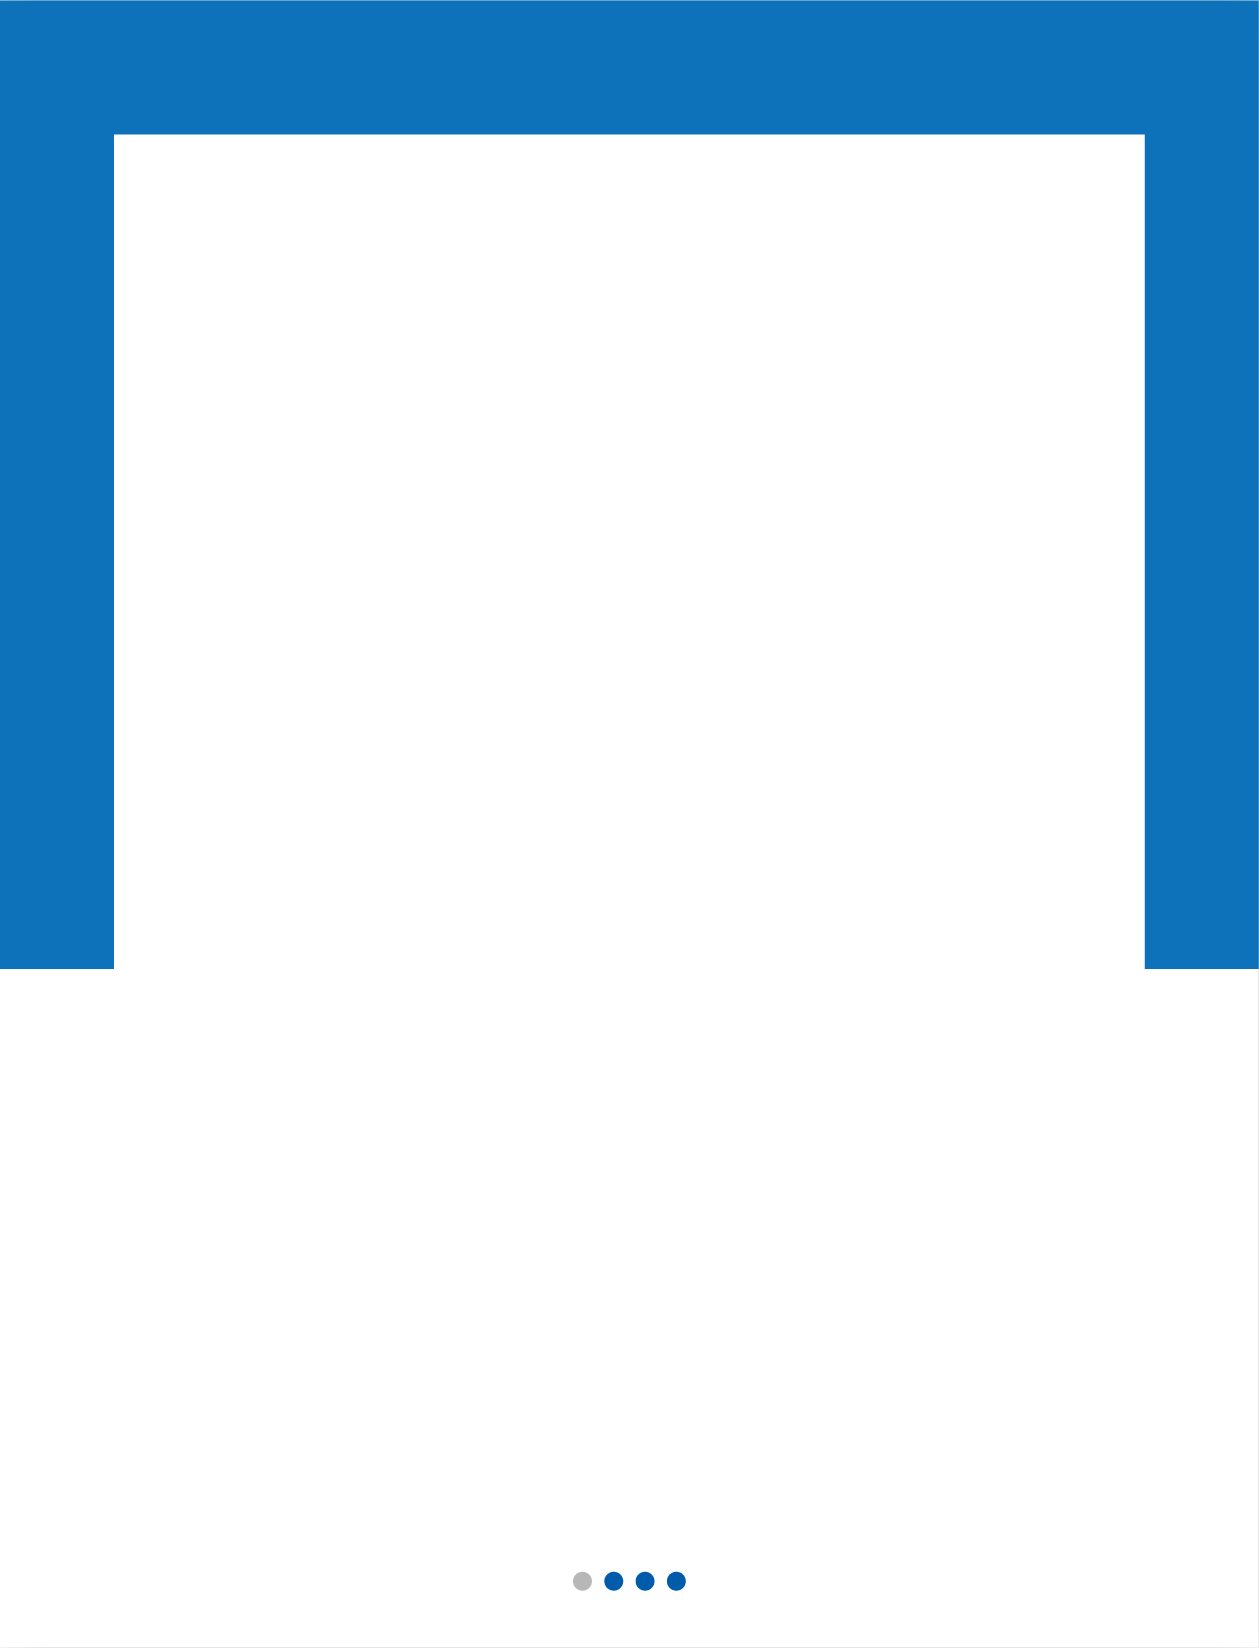
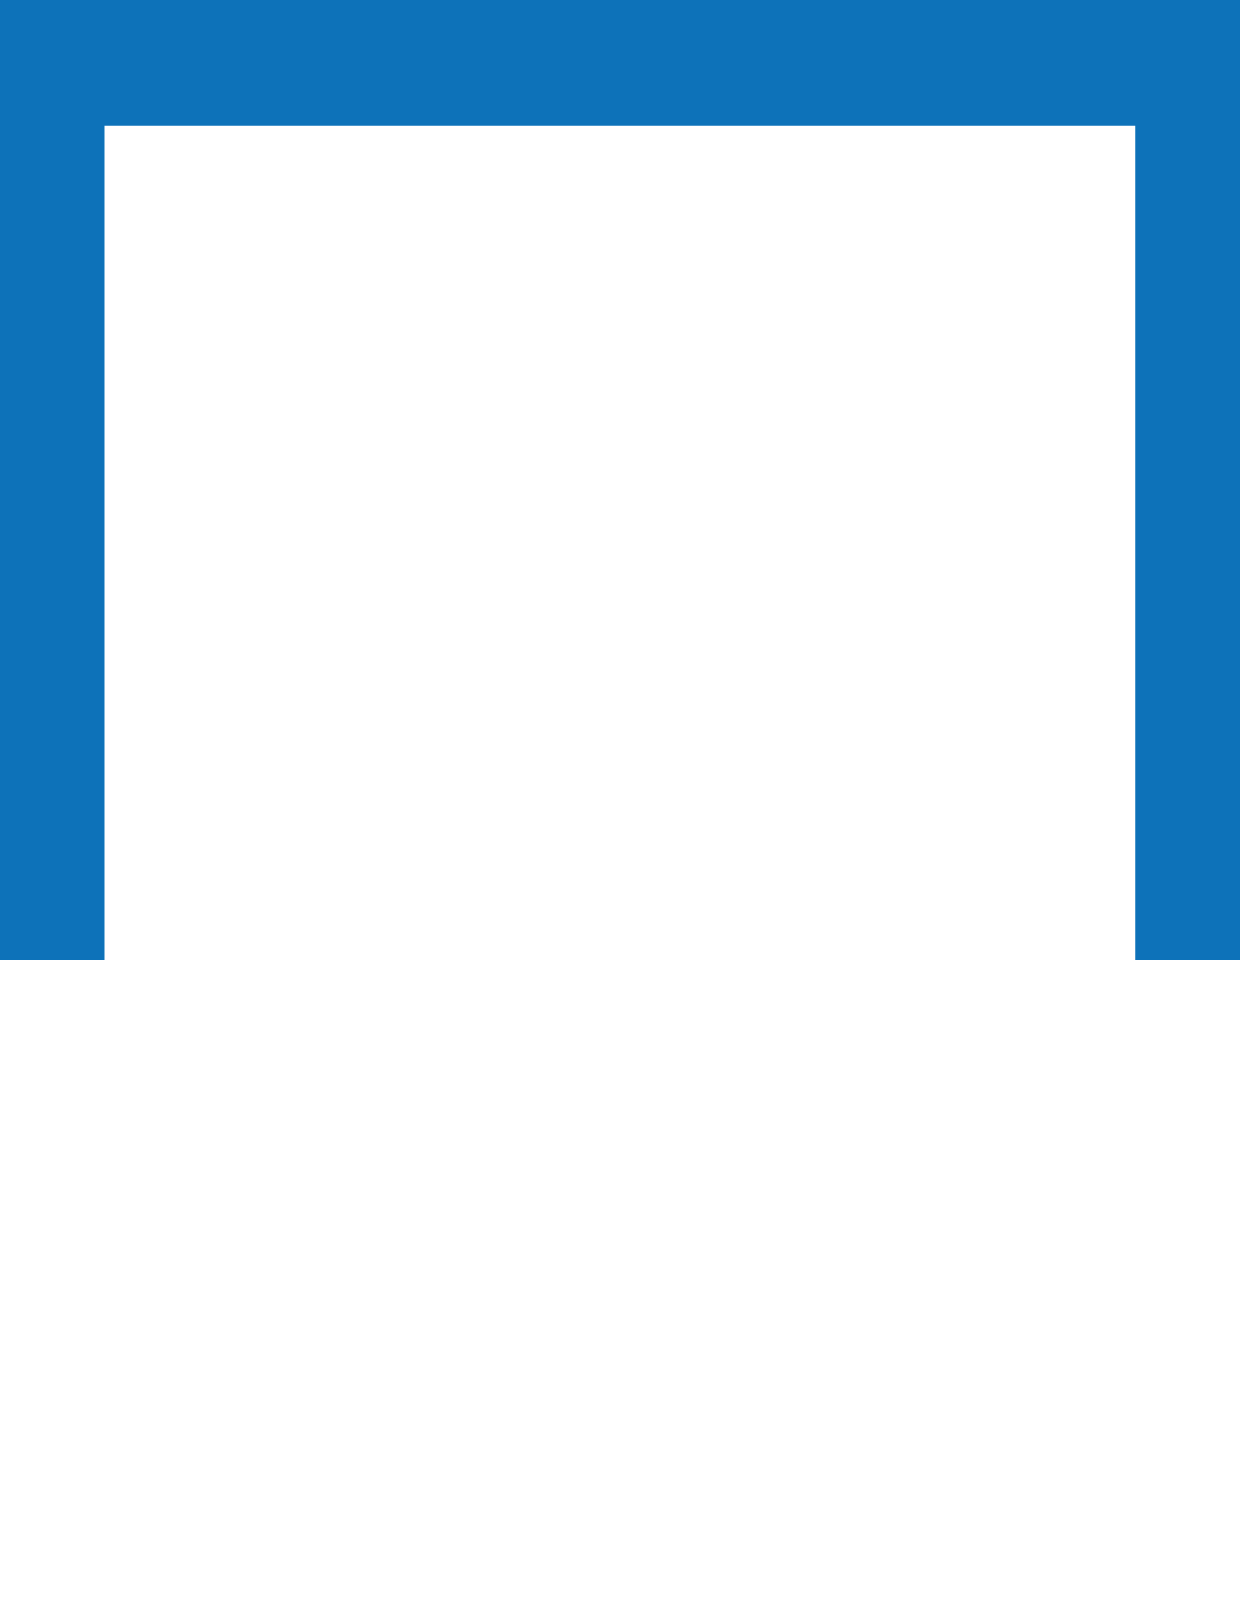
style: fixed home slider news background for all device with responsiveness

Changed region(s): [[0.0, 0.0618, 0.9194, 0.618], [0.9194, 0.5871, 1.0, 0.618], [0.4597, 0.958, 0.5516, 0.9889]]

diff --git a/src/components/Home/HomeNewsSlider.jsx b/src/components/Home/HomeNewsSlider.jsx
@@ -1,7 +1,7 @@
 import { useNavigate } from "react-router-dom";
 import Slider from "react-slick";
 import { useQuery } from "@tanstack/react-query";
-
+import newsImg from "../../assets/images/HomePage/News-01.png"; // Adjust the path as needed
 
 const NewsEvents = () => {
   const navigate = useNavigate();
@@ -23,7 +23,7 @@ const NewsEvents = () => {
     dots: true,
     arrows: false,
     infinite: true,
-    slidesToShow: 1, // Show only one slide at a time
+    slidesToShow: 1,
     slidesToScroll: 1,
     autoplay: true,
     speed: 1000,
@@ -32,56 +32,39 @@ const NewsEvents = () => {
     cssEase: "linear",
   };
 
-  // Split allNews into groups of 5 items each
+  // Split allNews into groups of 4 items each
   const groupedData = [];
   for (let i = 0; i < allNews?.length; i += 4) {
     groupedData.push(allNews?.slice(i, i + 4));
   }
 
   return (
-    <section>
-      <div className="shadow-2xl relative">
-        <div className="bg-primary h-72"></div>
-        <div className="bg-white h-52"></div>
-        <div className="absolute w-80 top-8 left-10 lg:left-7  bg-white">
-          <h2 className="text-primary font-bold text-center my-4 text-regular lg:text-semi_large bg-white ">
-            NEWS & EVENT
-          </h2>
-          <div className="bg-white h-60">
-            {groupedData?.length > 4 ? (
-              <Slider {...settings} className="pb-10">
-                {groupedData?.map((group, index) => (
-                  <div key={index} className=" text-blue-900 p-4">
-                    {group?.map((item) => (
-                      <div
-                        key={item?.id}
-                        className="flex items-center bg-gray-200 px-2 my-2 hover:cursor-pointer "
-                        onClick={() => navigate(`/news/`)}
-                      >
-                        <img
-                          src={item?.image_url}
-                          alt={item?.title}
-                          className="w-14 h-10 object-cover mr-4"
-                        />
-                        <div className="text-left">
-                          <p className="font-medium text-xs">{item?.title}</p>
-                          <p className="text-gray-500 text-xsmall">
-                            {item?.description.slice(0, 50)}
-                          </p>
-                        </div>
-                      </div>
-                    ))}
-                  </div>
-                ))}
-              </Slider>
-            ) : (
-              groupedData?.map((group, index) => (
-                <div key={index} className=" text-blue-900 p-4">
+    <section className="w-full">
+      <div
+        className="mx-auto max-w-6xl px-4 w-full h-full"
+        style={{
+          backgroundImage: `url(${newsImg})`, // Set the background image
+          backgroundSize: "cover",
+          backgroundPosition: "center",
+          backgroundRepeat: "no-repeat",
+          padding: "20px", // Adjust padding for layout
+          width: "100%",
+          minHeight: "500px", // Set minimum height for better coverage
+        }}
+      >
+        <h2 className="text-primary font-bold text-center my-4 text-regular lg:text-semi_large mt-10">
+          NEWS & EVENT
+        </h2>
+        <div className="p-2 rounded-md">
+          {groupedData?.length > 4 ? (
+            <Slider {...settings}>
+              {groupedData?.map((group, index) => (
+                <div key={index} className="text-blue-900 p-4">
                   {group?.map((item) => (
                     <div
                       key={item?.id}
-                      className="flex items-center bg-gray-200 px-2 my-2 hover:cursor-pointer "
-                      onClick={() => navigate(`/news/`)}
+                      className="flex items-center bg-gray-200 px-2 my-2 hover:cursor-pointer"
+                      onClick={() => navigate(`/news/${item.id}`)}
                     >
                       <img
                         src={item?.image_url}
@@ -97,9 +80,33 @@ const NewsEvents = () => {
                     </div>
                   ))}
                 </div>
-              ))
-            )}
-          </div>
+              ))}
+            </Slider>
+          ) : (
+            groupedData?.map((group, index) => (
+              <div key={index} className="text-blue-900 p-4">
+                {group?.map((item) => (
+                  <div
+                    key={item?.id}
+                    className="flex items-center bg-gray-200 px-2 my-2 hover:cursor-pointer"
+                    onClick={() => navigate(`/news/${item.id}`)}
+                  >
+                    <img
+                      src={item?.image_url}
+                      alt={item?.title}
+                      className="w-14 h-10 object-cover mr-4"
+                    />
+                    <div className="text-left">
+                      <p className="font-medium text-xs">{item?.title}</p>
+                      <p className="text-gray-500 text-xsmall">
+                        {item?.description.slice(0, 50)}
+                      </p>
+                    </div>
+                  </div>
+                ))}
+              </div>
+            ))
+          )}
         </div>
       </div>
     </section>
